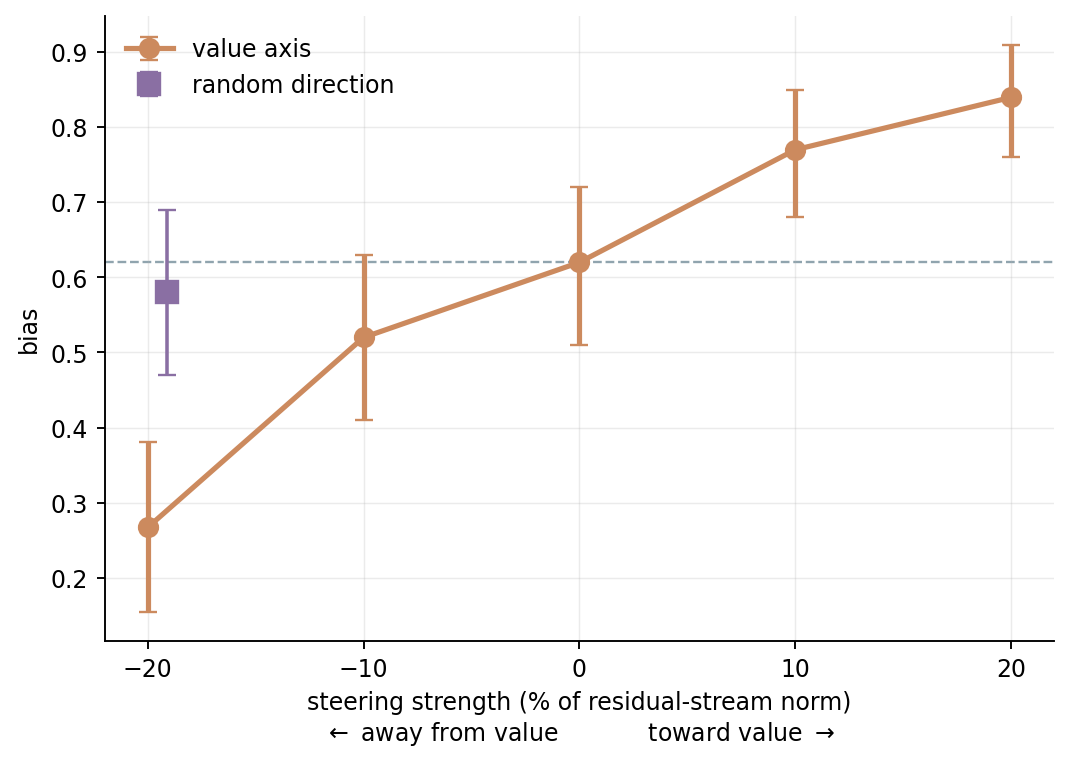
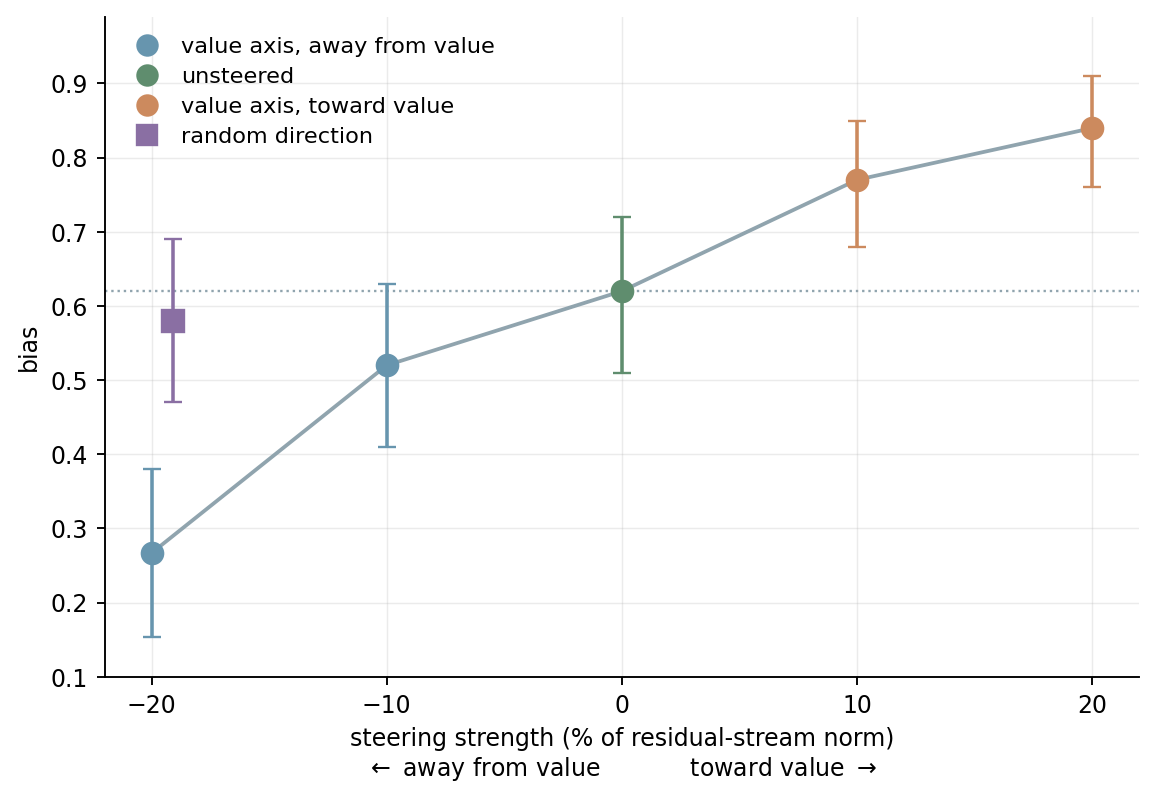
Colour the steering arms by what they are, and hand-place the labels
Four categories, four colours: slate for steering away from value, clay for
toward, sage for the unsteered reference, plum for the random direction. The
connecting line in fig12 drops to neutral grey so it stops reading as a series
colour of its own.

Labels in fig13 are placed by hand rather than with a uniform offset: -20% and
+10% sit 0.13 apart in x with the control ringing +10%, so the default
down-right offset collided three ways. Each label now carries its arm's colour,
which also removes the need to trace a line from text back to marker.

Claude-Session: https://claude.ai/code/session_01Lw3Qpx64A4kCLr3qqYKQ16

diff --git a/analysis/plot_steer_pair.py b/analysis/plot_steer_pair.py
@@ -23,11 +23,18 @@ from pathlib import Path
 
 import matplotlib.pyplot as plt
 import numpy as np
+from matplotlib.lines import Line2D
 
 ROOT = Path(__file__).resolve().parents[1]
 R = ROOT / "data/runs"
 REF = R / "qwen3.5-27b_20260823_223518"
-CLAY, GREY, PLUM = "#CC8A5E", "#90A4AE", "#8A6FA3"
+# Coloured by what the arm IS, not by an arbitrary series index: steering away from value, the
+# unsteered reference, steering toward value, and the random direction are four different things.
+AWAY, TOWARD, REFC, PLUM, GREY = "#6795AE", "#CC8A5E", "#5F8D6E", "#8A6FA3", "#90A4AE"
+
+
+def arm_colour(alpha: float) -> str:
+    return REFC if alpha == 0 else (AWAY if alpha < 0 else TOWARD)
 rng = np.random.default_rng(0)
 B = 200000
 
@@ -62,10 +69,12 @@ def main() -> None:
     err = [[axis[a]["bias"] - axis[a]["lo"] for a in al], [axis[a]["hi"] - axis[a]["bias"] for a in al]]
 
     # ---------------------------------------------------------------- fig 12: bias vs strength
-    fig, ax = plt.subplots(figsize=(6.4, 4.6))
-    ax.errorbar(pct, bias, yerr=err, fmt="o-", color=CLAY, lw=2.2, ms=8, capsize=4,
-                zorder=3, label="value axis")
-    ax.axhline(axis[0.0]["bias"], color=GREY, ls="--", lw=1, zorder=1)
+    fig, ax = plt.subplots(figsize=(6.9, 4.8))
+    ax.plot(pct, bias, "-", color=GREY, lw=1.6, zorder=2)          # link, not a series colour
+    ax.axhline(axis[0.0]["bias"], color=GREY, ls=":", lw=1, zorder=1)
+    for i, a in enumerate(al):
+        ax.errorbar([pct[i]], [bias[i]], yerr=[[err[0][i]], [err[1][i]]], fmt="o",
+                    color=arm_colour(a), ms=9, capsize=4, zorder=3)
     cx = ctrl_a / 1.0091 * 10
     # nudged off -20% so the two error bars do not overlap; it IS at that strength
     ax.errorbar([cx + 0.9], [ctrl["bias"]],
@@ -75,33 +84,48 @@ def main() -> None:
                   "$\\leftarrow$ away from value            toward value $\\rightarrow$")
     ax.set_ylabel("bias")
     ax.set_xticks(pct)
-    ax.legend(frameon=False, fontsize=10, loc="upper left")
+    ax.set_ylim(0.10, 0.99)
+    h = [Line2D([], [], ls="", marker=m, ms=8.5, color=c, label=t) for m, c, t in
+         (("o", AWAY, "value axis, away from value"), ("o", REFC, "unsteered"),
+          ("o", TOWARD, "value axis, toward value"), ("s", PLUM, "random direction"))]
+    ax.legend(handles=h, frameon=False, fontsize=9.5, loc="upper left", handletextpad=.5,
+              labelspacing=.45)
     ax.spines[["top", "right"]].set_visible(False)
     ax.grid(alpha=.25, lw=.6)
     fig.tight_layout()
     fig.savefig(ROOT / "plots/fig12_steer_bias.png", dpi=170, bbox_inches="tight")
 
     # ---------------------------------------------------------------- fig 13: vs displacement
-    fig, ax = plt.subplots(figsize=(6.4, 4.6))
+    fig, ax = plt.subplots(figsize=(6.9, 4.8))
     x = np.array([axis[a]["disp"] for a in al])
     y = np.array([axis[a]["sep"] for a in al])
     m, b = np.polyfit(np.append(x, ctrl["disp"]), np.append(y, ctrl["sep"]), 1)
     xs = np.linspace(0, max(x.max(), ctrl["disp"]) * 1.12, 50)
     ax.plot(xs, m * xs + b, color=GREY, ls="--", lw=1.2, zorder=1)
-    ax.scatter([ctrl["disp"]], [ctrl["sep"]], marker="s", s=340, facecolor="none",
-               edgecolor=PLUM, lw=2.4, zorder=2, label="random direction")
-    ax.scatter(x, y, s=95, color=CLAY, zorder=3, edgecolor="white", lw=1.2, label="value axis")
-    off = {1.0091: (-13, -18), 2.0181: (11, -4), -2.0181: (-2, 12), -1.0091: (11, -4), 0.0: (11, -4)}
+    ax.scatter([ctrl["disp"]], [ctrl["sep"]], marker="s", s=360, facecolor="none",
+               edgecolor=PLUM, lw=2.4, zorder=2)
+    for a_, xi, yi in zip(al, x, y):
+        ax.scatter([xi], [yi], s=100, color=arm_colour(a_), zorder=3, edgecolor="white", lw=1.2)
+    # placed by hand: -20% and +10% sit 0.13 apart in x with the control ringing +10%, so the
+    # default offset collides three ways
+    off = {-2.0181: (0, 13, "center"), -1.0091: (0, -20, "center"), 0.0: (13, -4, "left"),
+           1.0091: (0, -25, "center"), 2.0181: (13, -4, "left")}
     for a_, xi, yi, p_ in zip(al, x, y, pct):
-        ha = "right" if off[a_][0] < 0 else "left"
+        dx, dy, ha = off[a_]
         ax.annotate(f"{p_:+.0f}%".replace("+0%", "unsteered"), (xi, yi), ha=ha,
-                    textcoords="offset points", xytext=off[a_], fontsize=9, color="#4A4A4A")
+                    textcoords="offset points", xytext=(dx, dy), fontsize=9.5,
+                    color=arm_colour(a_), fontweight="medium")
     ax.annotate(f"random {cx:+.0f}%", (ctrl["disp"], ctrl["sep"]), textcoords="offset points",
-                xytext=(15, 9), fontsize=9, color=PLUM)
+                xytext=(19, 10), fontsize=9.5, color=PLUM, fontweight="medium")
     ax.set_xlabel("|displacement| of the no-bet answer\nfrom the threshold (log units)")
     ax.set_ylabel("above-good vs below-good separation (log units)")
-    ax.set_xlim(-0.08, max(x.max(), ctrl["disp"]) * 1.22)
-    ax.legend(frameon=False, fontsize=10, loc="upper left")
+    ax.set_xlim(-0.10, max(x.max(), ctrl["disp"]) * 1.24)
+    ax.set_ylim(-0.02, max(y.max(), ctrl["sep"]) * 1.20)
+    h = [Line2D([], [], ls="", marker=m, ms=8.5, color=c, mfc=f, label=t) for m, c, f, t in
+         (("o", AWAY, AWAY, "away from value"), ("o", REFC, REFC, "unsteered"),
+          ("o", TOWARD, TOWARD, "toward value"), ("s", PLUM, "none", "random direction"))]
+    ax.legend(handles=h, frameon=False, fontsize=9.5, loc="upper left", handletextpad=.5,
+              labelspacing=.45)
     ax.spines[["top", "right"]].set_visible(False)
     ax.grid(alpha=.25, lw=.6)
     fig.tight_layout()
